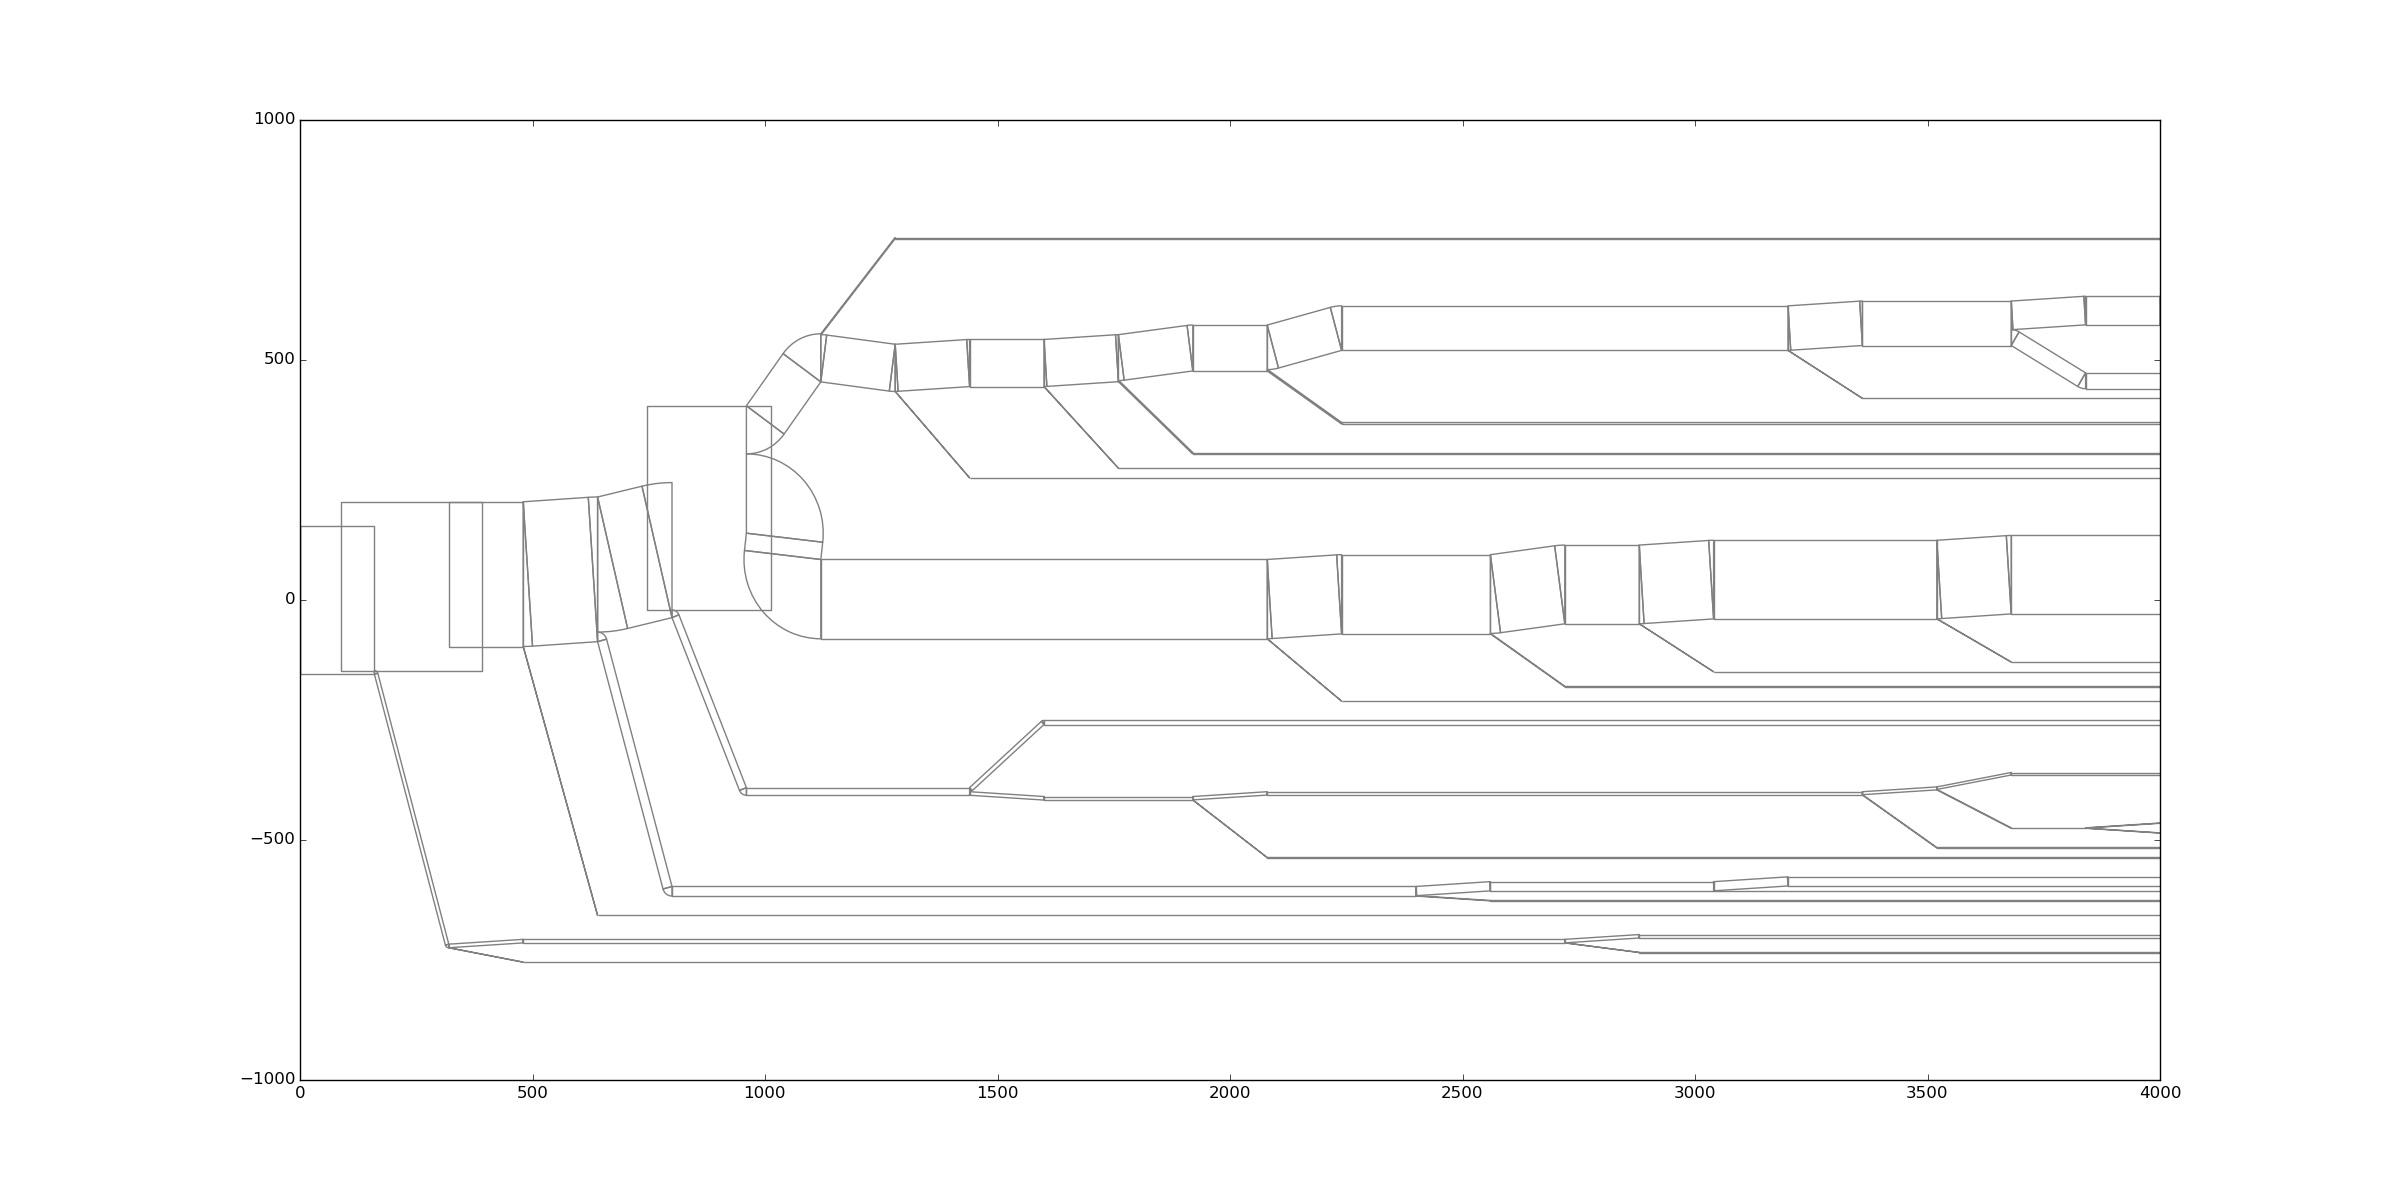
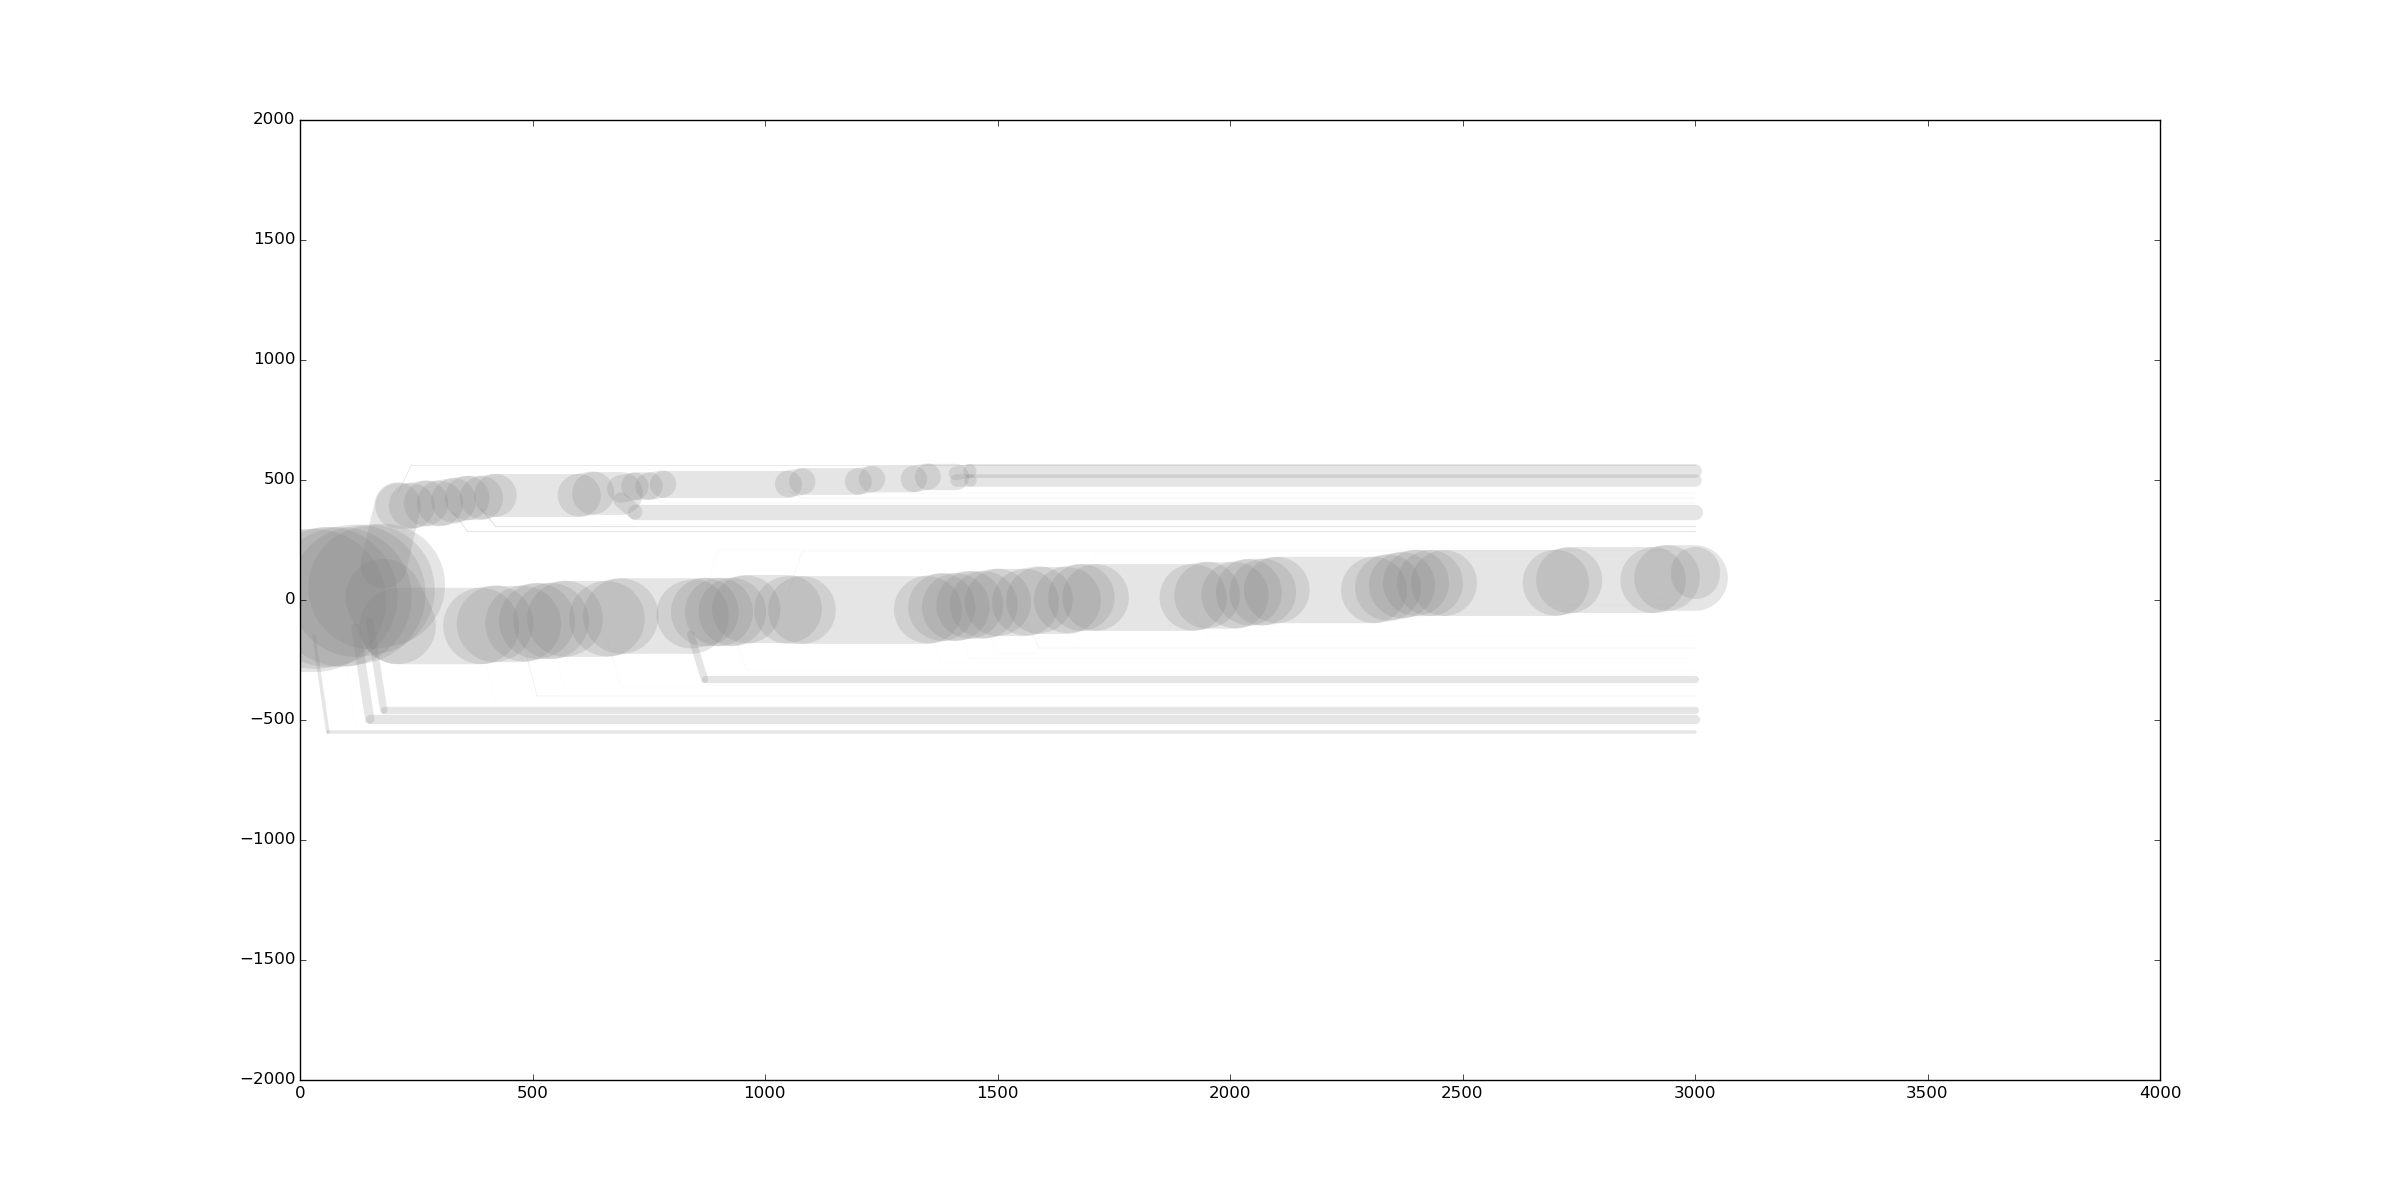
WIP

diff --git a/drawing.py b/drawing.py
@@ -32,6 +32,9 @@ class Point:
     def __mul__(self, o):
         return Point(self.x * o, self.y * o)
 
+    def __len__(self):
+        return sqrt(pow(self.x, 2) + pow(self.y, 2))
+
     def midpoint(self, other):
         return Point((self.x + other.x) / 2, (self.y + other.y) / 2)
 
@@ -96,8 +99,18 @@ def find_rectangle(a, c, width, direction):
 
 def path_maker(func):
     def wrapped(self, *args, **kwargs):
-        patch = patches.PathPatch(Path(*func(self, *args, **kwargs)), **self.drawing_kwargs)
-        self.patches.append(patch)
+        path = func(self, *args, **kwargs)
+        if path:
+            patch = patches.PathPatch(Path(*path), **self.drawing_kwargs)
+            self.patches.append(patch)
+    return wrapped
+
+def path_maker_with_width(func):
+    def wrapped(self, *args, **kwargs):
+        path, width, col = func(self, *args, **kwargs)
+        if path:
+            patch = patches.PathPatch(Path(*path), edgecolor=col, lw=width, **self.drawing_kwargs)
+            self.patches.append(patch)
     return wrapped
 
 
@@ -172,6 +185,12 @@ class Drawing:
         if not (fabs(aa - ab) < 0.01):
             self.patches.append(patches.Wedge(center.tuple(), h, ab, aa,  **self.drawing_kwargs))
 
+    @path_maker_with_width
+    def simple_line(self, start, end, width, colour):
+        return (((start,end),
+               (Path.MOVETO,
+                Path.LINETO,)),
+                width/3, colour)
 
     @path_maker
     def width_maintained_segment(self, start, end, width):
@@ -191,12 +210,22 @@ class Drawing:
                         off_b.tuple(),
                         (None, None)), self._quad_codes
             except ValueError:
-                return ((start,
-                        (start[0], end[1]),
-                        end,
-                        (end[0], start[1]),
-                        (None, None)),
-                        self._quad_codes)
+                return
+                dist = end_l[0] - start_l[0]
+                extra = width - dist
+                start_l = (start_l[0] - extra / 2, start_l[1])
+                start_u = (start_u[0] - extra / 2, start_u[1])
+                end_l = (end_l[0] + extra / 2, end_l[1])
+                end_u = (end_u[0] + extra / 2, end_u[1])
+                a, off_b, c, off_d = find_rectangle(Point(*start_l), Point(*end_u), width, 'down')
+                self.arc_from_three_points(Point(*start_l), Point(*start_u), off_b)
+                self.arc_from_three_points(Point(*end_u), Point(*end_l), off_d)
+                return (start_l,
+                        off_d.tuple(),
+                        end_u,
+                        off_b.tuple(),
+                        (None, None)), self._quad_codes
+
         else:
             try:
                 a, off_b, c, off_d = find_rectangle(Point(*start_u), Point(*end_l), width, 'up')
@@ -208,39 +237,56 @@ class Drawing:
                         off_d.tuple(),
                         (None, None)), self._quad_codes
             except ValueError:
-                mid = Point(*start_u).midpoint(Point(*end_l)).tuple()
+                # dist = end_l[0] - start_l[0]
+                # extra = width - dist
+                # start_l = (start_l[0] - extra / 2, start_l[1])
+                # start_u = (start_u[0] - extra / 2, start_u[1])
+                # end_l = (end_l[0] + extra / 2, end_l[1])
+                # end_u = (end_u[0] + extra / 2, end_u[1])
+                # a, off_b, c, off_d = find_rectangle(Point(*start_u), Point(*end_l), width, 'up')
+                # self.arc_from_three_points(Point(*start_u), off_b, Point(*start_l))
+                # self.arc_from_three_points(Point(*end_l), off_d, Point(*end_u))
+                # return (start_u,
+                #         off_b.tuple(),
+                #         end_l,
+                #         off_d.tuple(),
+                #         (None, None)), self._quad_codes
+                start_u = Point(*start_u)
+                end_l = Point(*end_l)
+                mid = start_u.midpoint(end_l)
                 hw = width/2
+                extension = hw / start_u.distance(mid)
+                start_ext = ((start_u-mid)*extension)+mid
+                end_ext = ((end_l-mid)*extension)+mid
                 gap = end[0] - start[0]
                 overdraw = (width - gap)/2
+                mid = mid.tuple()
                 left = mid[0] - hw
                 right = mid[0] + hw
                 top = end_u[1]
                 bottom = start_l[1]
-                print(top,bottom,left, right)
-                return (((left, bottom),
-                        (left, top),
-                         (right, top),
-                         (right, bottom),
-                        (None, None)),
-                        self._quad_codes)
+                print(top, bottom, left, right)
+                self.patches.append(patches.Circle(mid, hw,  **self.drawing_kwargs))
+                #self.patches.append(patches.Circle(start_ext.tuple(), hw,  **self.drawing_kwargs))
+                return None
+                # return ((start_u.tuple(),
+                #         start_ext.tuple(),
+                #          end_u,
+                #          end_l.tuple(),
+                #         end_ext.tuple(),
+                #         start_l,
+                #          (None, None)),
+                #         self._hex_codes)
+                #
+                # return (((left, bottom),
+                #         (left, top),
+                #          (right, top),
+                #          (right, bottom),
+                #         (None, None)),
+                #         self._quad_codes)
 
 
     def patches(self):
         return self.patches
 
 
-def draw(d, x, y, y_offset, width, delta_x, delta_y, children):
-    # d.width_maintained_segment((100, 50), (200, 200), 50)
-    # d.width_maintained_segment((100, 500), (200, 350), 50)
-    # d.width_maintained_segment((280, 224.01), (360, 720), 16.52)
-    # d.line_segment((x, y + y_offset), (x + delta_x, y + delta_y), width)
-    d.width_maintained_segment((x, y + y_offset), (x + delta_x, y + delta_y), width)
-    # d.line_segment((x, y + y_offset), (x + delta_x, y + delta_y), width)
-
-    top = width
-    for c in children:
-        child_width = float(c.haplos)/5
-        top -= child_width  # (haplos = width)
-        draw(d, x + delta_x, y + delta_y, top + (child_width / 2) - (width / 2), child_width, c.distance * 160,
-             c.delta_y,
-             c.children)

diff --git a/bifurcate.py b/bifurcate.py
@@ -41,7 +41,7 @@ class Tree:
                     val = calls[j_hap]
                     separation.setdefault(val, []).append(j_hap)
                 node.distance += 1
-                if len(separation) > 1:
+                if len(separation) > 1 and len(node.haplos) > 200:
                     node.children = (
                         Node(separation[0], parent=node),
                         Node(separation[1], parent=node)
@@ -89,11 +89,26 @@ class Tree:
                     len_p = node.haplos*sample_width + node.splits*split_width
                     len_0 = node.children[0].haplos*sample_width + node.children[0].splits*split_width
                     len_1 = node.children[1].haplos*sample_width + node.children[1].splits*split_width
-                    mid = len_p/2 - (len_0)
+                    mid = len_p/2 - len_0
                     node.children[0].delta_y=mid + len_0/2
                     node.children[1].delta_y=mid - len_1/2
 
+    def draw(self, d, x, y, sample_size):
+        self._draw(d, x, y, 0, float(self.matrix.shape[1])*sample_size, 0, 0, [self.root_node], sample_size)
 
+
+    def _draw(self, d, x, y, y_offset, width, delta_x, delta_y, children, sample_size):
+        #d.width_maintained_segment((x, y + y_offset), (x + delta_x, y + delta_y), width)
+        off = 10
+        #d.simple_line((x-off, y + y_offset-off), (x + delta_x-off, y + delta_y-off), width, 'black')
+        d.simple_line((x, y + y_offset), (x + delta_x, y + delta_y), width, 'grey')
+        top = width
+        for c in children:
+            child_width = float(c.haplos)*sample_size
+            top -= child_width  # (haplos = width)
+            self._draw(d, x + delta_x, y + delta_y, top + (child_width / 2) - (width / 2), child_width, c.distance * 30,
+                 c.delta_y,
+                 c.children, sample_size)
 
 
 

diff --git a/test.py b/test.py
@@ -4,21 +4,22 @@ import matplotlib.pyplot as plt
 import numpy as np
 import sys
 from bifurcate import Tree, Node
-from drawing import Drawing, draw
+from drawing import Drawing
 import pprint
 
 mat = np.load('haplotypes.npy')
 pos = np.load('pos.npy')
-mat = mat[:50,:]
+mat = mat[:100,:]
 tree = Tree(mat, pos)
-tree.arrange_y(0.2, 10)
-d = Drawing(facecolor='none', edgecolor='grey', joinstyle="round", antialiased=True)
-draw(d, 0, 0, 0, float(mat.shape[1])/5, 0, 0, [tree.root_node])
+sample_size = 0.2
+tree.arrange_y(sample_size, 10)
+d = Drawing(facecolor='grey', alpha = .2, capstyle='round', joinstyle="round", antialiased=True)
+tree.draw(d, 0, 0, sample_size)
 
-fig = plt.figure(figsize=(24,12), dpi=800)
+fig = plt.figure(figsize=(24,12))
 ax = fig.add_subplot(111)
 ax.set_xlim(0, 4000)
-ax.set_ylim(-1000, 1000)
+ax.set_ylim(-2000, 2000)
 for patch in d.patches:
     ax.add_patch(patch)
 plt.show()
